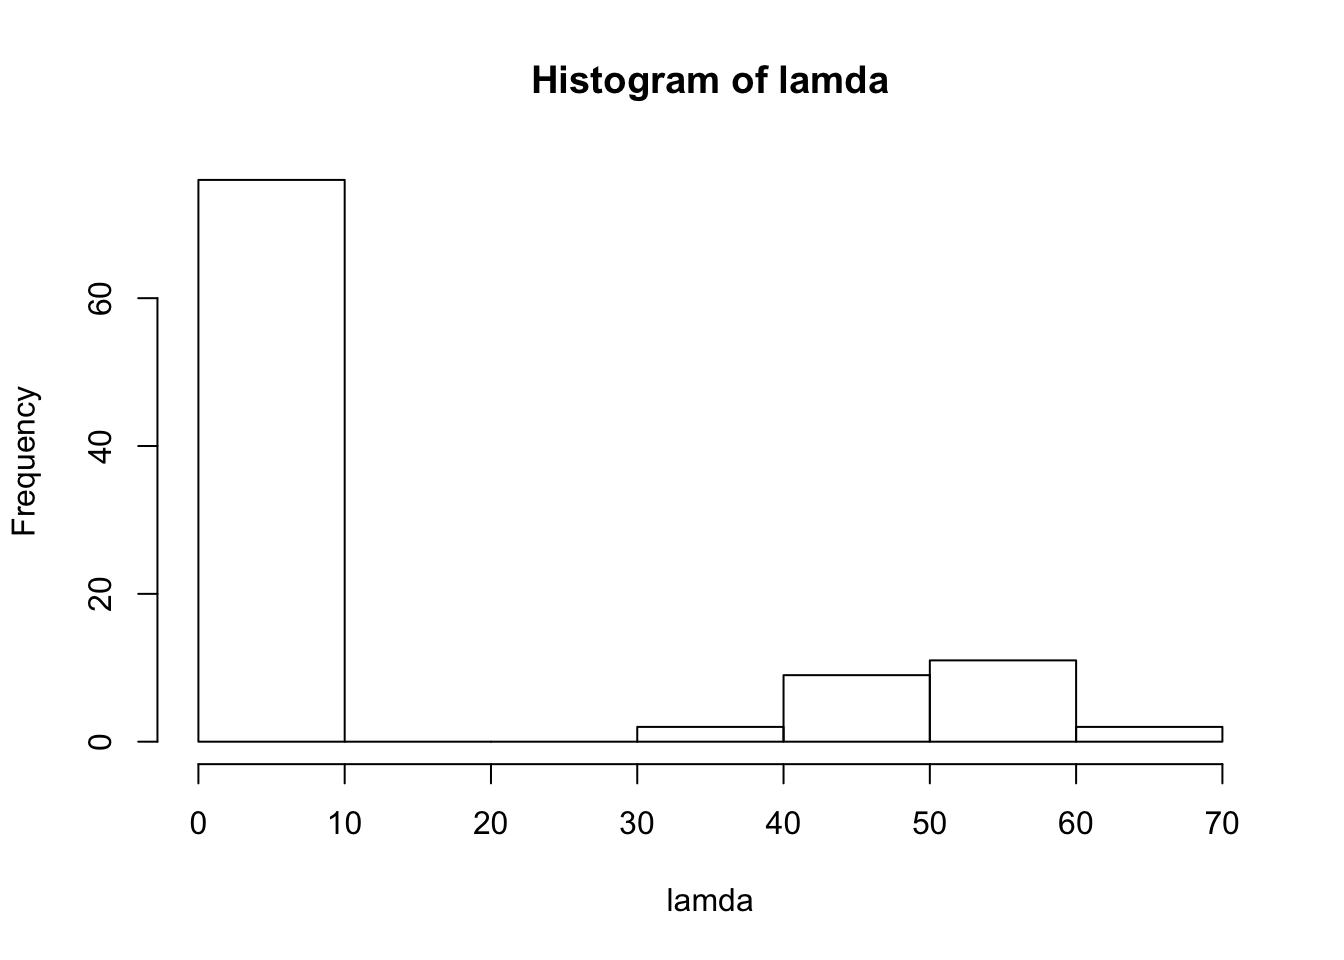
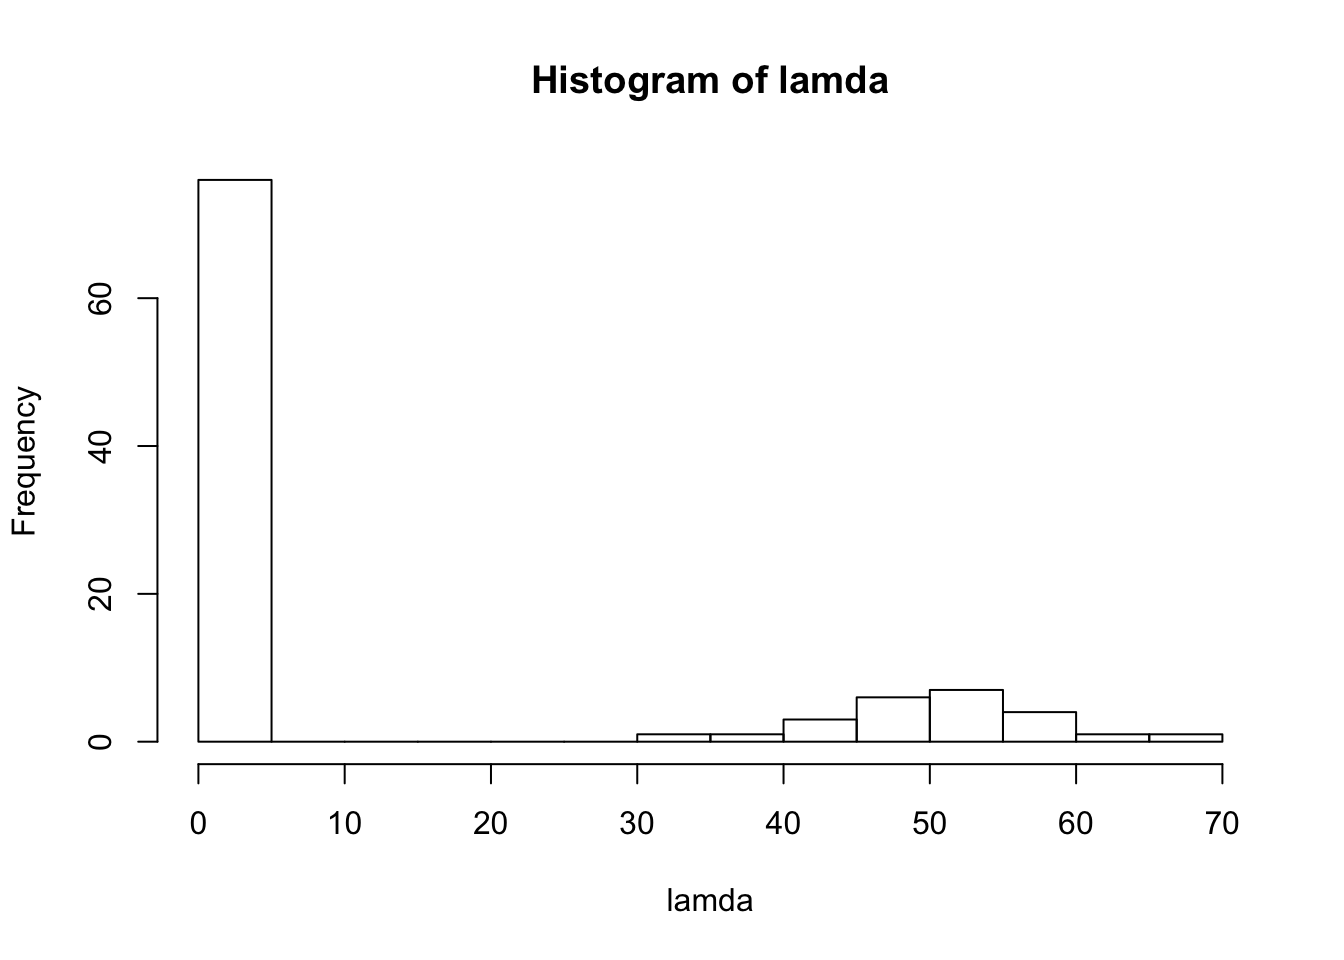
Build site.

diff --git a/docs/poissonmean2.html b/docs/poissonmean2.html
@@ -497,10 +497,10 @@ This reproducible <a href="http://rmarkdown.rstudio.com">R Markdown</a> analysis
 <div class="panel panel-default">
 <div class="panel-heading">
 <p class="panel-title">
-<a data-toggle="collapse" data-parent="#workflowr-checks" href="#strongRepositoryversionstrongahrefhttpsgithubcomDongyueXieFMFtree559b3e2653b3ff44ff8ecd0879367795a06c47b8targetblank559b3e2a"> <span class="glyphicon glyphicon-ok text-success" aria-hidden="true"></span> <strong>Repository version:</strong> <a href="https://github.com/DongyueXie/FMF/tree/559b3e2653b3ff44ff8ecd0879367795a06c47b8" target="_blank">559b3e2</a> </a>
+<a data-toggle="collapse" data-parent="#workflowr-checks" href="#strongRepositoryversionstrongahrefhttpsgithubcomDongyueXieFMFtree8b53d6cd89d28f7f61cc44eb20b66ed243a89231targetblank8b53d6ca"> <span class="glyphicon glyphicon-ok text-success" aria-hidden="true"></span> <strong>Repository version:</strong> <a href="https://github.com/DongyueXie/FMF/tree/8b53d6cd89d28f7f61cc44eb20b66ed243a89231" target="_blank">8b53d6c</a> </a>
 </p>
 </div>
[2 lines of base64/hex data omitted]
 <div class="panel-body">
 <p>
 Great! You are using Git for version control. Tracking code development and connecting the code version to the results is critical for reproducibility. The version displayed above was the version of the Git repository at the time these results were generated. <br><br> Note that you need to be careful to ensure that all relevant files for the analysis have been committed to Git prior to generating the results (you can use <code>wflow_publish</code> or <code>wflow_git_commit</code>). workflowr only checks the R Markdown file, but you know if there are other scripts or data files that it depends on. Below is the status of the Git repository when the results were generated:
@@ -558,6 +558,40 @@ Message
 </tr>
 </thead>
 <tbody>
+<tr>
+<td>
+Rmd
+</td>
+<td>
+<a href="https://github.com/DongyueXie/FMF/blob/8b53d6cd89d28f7f61cc44eb20b66ed243a89231/analysis/poissonmean2.Rmd" target="_blank">8b53d6c</a>
+</td>
+<td>
+Dongyue Xie
+</td>
+<td>
+2019-11-12
+</td>
+<td>
+wflow_publish(“analysis/poissonmean2.Rmd”)
+</td>
+</tr>
+<tr>
+<td>
+html
+</td>
+<td>
+<a href="https://rawcdn.githack.com/DongyueXie/FMF/83f336c43993fc0bc0ae195ff64adee8cf6506a4/docs/poissonmean2.html" target="_blank">83f336c</a>
+</td>
+<td>
+Dongyue Xie
+</td>
+<td>
+2019-11-12
+</td>
+<td>
+Build site.
+</td>
+</tr>
 <tr>
 <td>
 Rmd
@@ -635,13 +669,7 @@ for(i in 1:100){
 
 lamda = sort(lamda)
 
-hist(lamda,hist=20)</code></pre>
-<pre><code>Warning in plot.window(xlim, ylim, &quot;&quot;, ...): &quot;hist&quot; is not a graphical
-parameter</code></pre>
-<pre><code>Warning in title(main = main, sub = sub, xlab = xlab, ylab = ylab, ...):
-&quot;hist&quot; is not a graphical parameter</code></pre>
-<pre><code>Warning in axis(1, ...): &quot;hist&quot; is not a graphical parameter</code></pre>
-<pre><code>Warning in axis(2, ...): &quot;hist&quot; is not a graphical parameter</code></pre>
+hist(lamda,breaks =20)</code></pre>
 <p><img src="figure/poissonmean2.Rmd/unnamed-chunk-1-1.png" width="672" style="display: block; margin: auto;" /></p>
 <p>
 <button type="button" class="btn btn-default btn-xs btn-workflowr btn-workflowr-fig" data-toggle="collapse" data-target="#fig-unnamed-chunk-1-1">
@@ -665,6 +693,17 @@ Date
 </tr>
 </thead>
 <tbody>
+<tr>
+<td>
+<a href="https://github.com/DongyueXie/FMF/blob/83f336c43993fc0bc0ae195ff64adee8cf6506a4/docs/figure/poissonmean2.Rmd/unnamed-chunk-1-1.png" target="_blank">83f336c</a>
+</td>
+<td>
+Dongyue Xie
+</td>
+<td>
+2019-11-12
+</td>
+</tr>
 <tr>
 <td>
 <a href="https://github.com/DongyueXie/FMF/blob/2bec0d4d92d4d8d194a3d081d638b6a854e202a8/docs/figure/poissonmean2.Rmd/unnamed-chunk-1-1.png" target="_blank">2bec0d4</a>
@@ -711,6 +750,17 @@ Date
 <tbody>
 <tr>
 <td>
+<a href="https://github.com/DongyueXie/FMF/blob/83f336c43993fc0bc0ae195ff64adee8cf6506a4/docs/figure/poissonmean2.Rmd/unnamed-chunk-1-2.png" target="_blank">83f336c</a>
+</td>
+<td>
+Dongyue Xie
+</td>
+<td>
+2019-11-12
+</td>
+</tr>
+<tr>
+<td>
 <a href="https://github.com/DongyueXie/FMF/blob/2bec0d4d92d4d8d194a3d081d638b6a854e202a8/docs/figure/poissonmean2.Rmd/unnamed-chunk-1-2.png" target="_blank">2bec0d4</a>
 </td>
 <td>
@@ -728,6 +778,43 @@ Dongyue Xie
 lines(fit$posterior$mean,type=&#39;p&#39;,pch=3,col=2)
 legend(&#39;topleft&#39;,c(&#39;MLE&#39;,&#39;Posterior mean&#39;),col=c(1,2),pch=c(16,3))</code></pre>
 <p><img src="figure/poissonmean2.Rmd/unnamed-chunk-1-3.png" width="672" style="display: block; margin: auto;" /></p>
+<p>
+<button type="button" class="btn btn-default btn-xs btn-workflowr btn-workflowr-fig" data-toggle="collapse" data-target="#fig-unnamed-chunk-1-3">
+Past versions of unnamed-chunk-1-3.png
+</button>
+</p>
+<div id="fig-unnamed-chunk-1-3" class="collapse">
+<div class="table-responsive">
+<table class="table table-condensed table-hover">
+<thead>
+<tr>
+<th>
+Version
+</th>
+<th>
+Author
+</th>
+<th>
+Date
+</th>
+</tr>
+</thead>
+<tbody>
+<tr>
+<td>
+<a href="https://github.com/DongyueXie/FMF/blob/83f336c43993fc0bc0ae195ff64adee8cf6506a4/docs/figure/poissonmean2.Rmd/unnamed-chunk-1-3.png" target="_blank">83f336c</a>
+</td>
+<td>
+Dongyue Xie
+</td>
+<td>
+2019-11-12
+</td>
+</tr>
+</tbody>
+</table>
+</div>
+</div>
 <p>No shrinkage estimate when <span class="math inline">\(x=0,1,2\)</span>.</p>
 <p>How about <span class="math inline">\(\exp(E\log\lambda)\)</span>?</p>
 <pre class="r"><code>plot((x/s),col=&#39;grey80&#39;,pch=16)
@@ -756,6 +843,17 @@ Date
 </tr>
 </thead>
 <tbody>
+<tr>
+<td>
+<a href="https://github.com/DongyueXie/FMF/blob/83f336c43993fc0bc0ae195ff64adee8cf6506a4/docs/figure/poissonmean2.Rmd/unnamed-chunk-2-1.png" target="_blank">83f336c</a>
+</td>
+<td>
+Dongyue Xie
+</td>
+<td>
+2019-11-12
+</td>
+</tr>
 <tr>
 <td>
 <a href="https://github.com/DongyueXie/FMF/blob/2bec0d4d92d4d8d194a3d081d638b6a854e202a8/docs/figure/poissonmean2.Rmd/unnamed-chunk-2-1.png" target="_blank">2bec0d4</a>
@@ -829,6 +927,17 @@ Date
 <tbody>
 <tr>
 <td>
+<a href="https://github.com/DongyueXie/FMF/blob/83f336c43993fc0bc0ae195ff64adee8cf6506a4/docs/figure/poissonmean2.Rmd/unnamed-chunk-5-1.png" target="_blank">83f336c</a>
+</td>
+<td>
+Dongyue Xie
+</td>
+<td>
+2019-11-12
+</td>
+</tr>
+<tr>
+<td>
 <a href="https://github.com/DongyueXie/FMF/blob/2bec0d4d92d4d8d194a3d081d638b6a854e202a8/docs/figure/poissonmean2.Rmd/unnamed-chunk-5-1.png" target="_blank">2bec0d4</a>
 </td>
 <td>
@@ -870,6 +979,17 @@ Date
 <tbody>
 <tr>
 <td>
+<a href="https://github.com/DongyueXie/FMF/blob/83f336c43993fc0bc0ae195ff64adee8cf6506a4/docs/figure/poissonmean2.Rmd/unnamed-chunk-5-2.png" target="_blank">83f336c</a>
+</td>
+<td>
+Dongyue Xie
+</td>
+<td>
+2019-11-12
+</td>
+</tr>
+<tr>
+<td>
 <a href="https://github.com/DongyueXie/FMF/blob/2bec0d4d92d4d8d194a3d081d638b6a854e202a8/docs/figure/poissonmean2.Rmd/unnamed-chunk-5-2.png" target="_blank">2bec0d4</a>
 </td>
 <td>
@@ -892,10 +1012,84 @@ Dongyue Xie
 <pre class="r"><code>plot(x/s,exp(fit$posterior$mean_log),xlab = &#39;MLE&#39;,ylab = &#39;exp(Posterior mean log)&#39;,pch=16)
 abline(0,1)</code></pre>
 <p><img src="figure/poissonmean2.Rmd/unnamed-chunk-7-1.png" width="672" style="display: block; margin: auto;" /></p>
+<p>
+<button type="button" class="btn btn-default btn-xs btn-workflowr btn-workflowr-fig" data-toggle="collapse" data-target="#fig-unnamed-chunk-7-1">
+Past versions of unnamed-chunk-7-1.png
+</button>
+</p>
+<div id="fig-unnamed-chunk-7-1" class="collapse">
+<div class="table-responsive">
+<table class="table table-condensed table-hover">
+<thead>
+<tr>
+<th>
+Version
+</th>
+<th>
+Author
+</th>
+<th>
+Date
+</th>
+</tr>
+</thead>
+<tbody>
+<tr>
+<td>
+<a href="https://github.com/DongyueXie/FMF/blob/83f336c43993fc0bc0ae195ff64adee8cf6506a4/docs/figure/poissonmean2.Rmd/unnamed-chunk-7-1.png" target="_blank">83f336c</a>
+</td>
+<td>
+Dongyue Xie
+</td>
+<td>
+2019-11-12
+</td>
+</tr>
+</tbody>
+</table>
+</div>
+</div>
 <pre class="r"><code>plot(x/s,col=&#39;grey80&#39;,pch=16)
 lines(exp(fit$posterior$mean_log),type=&#39;p&#39;,pch=3,col=2)
 legend(&#39;topleft&#39;,c(&#39;MLE&#39;,&#39;exp(Posterior mean log)&#39;),col=c(1,2),pch=c(16,3))</code></pre>
 <p><img src="figure/poissonmean2.Rmd/unnamed-chunk-7-2.png" width="672" style="display: block; margin: auto;" /></p>
+<p>
+<button type="button" class="btn btn-default btn-xs btn-workflowr btn-workflowr-fig" data-toggle="collapse" data-target="#fig-unnamed-chunk-7-2">
+Past versions of unnamed-chunk-7-2.png
+</button>
+</p>
+<div id="fig-unnamed-chunk-7-2" class="collapse">
+<div class="table-responsive">
+<table class="table table-condensed table-hover">
+<thead>
+<tr>
+<th>
+Version
+</th>
+<th>
+Author
+</th>
+<th>
+Date
+</th>
+</tr>
+</thead>
+<tbody>
+<tr>
+<td>
+<a href="https://github.com/DongyueXie/FMF/blob/83f336c43993fc0bc0ae195ff64adee8cf6506a4/docs/figure/poissonmean2.Rmd/unnamed-chunk-7-2.png" target="_blank">83f336c</a>
+</td>
+<td>
+Dongyue Xie
+</td>
+<td>
+2019-11-12
+</td>
+</tr>
+</tbody>
+</table>
+</div>
+</div>
 <pre class="r"><code>(x/s)[60]</code></pre>
 <pre><code>[1] 0.08</code></pre>
 <pre class="r"><code>round(exp(fit$posterior$mean_log)[60],3)</code></pre>
